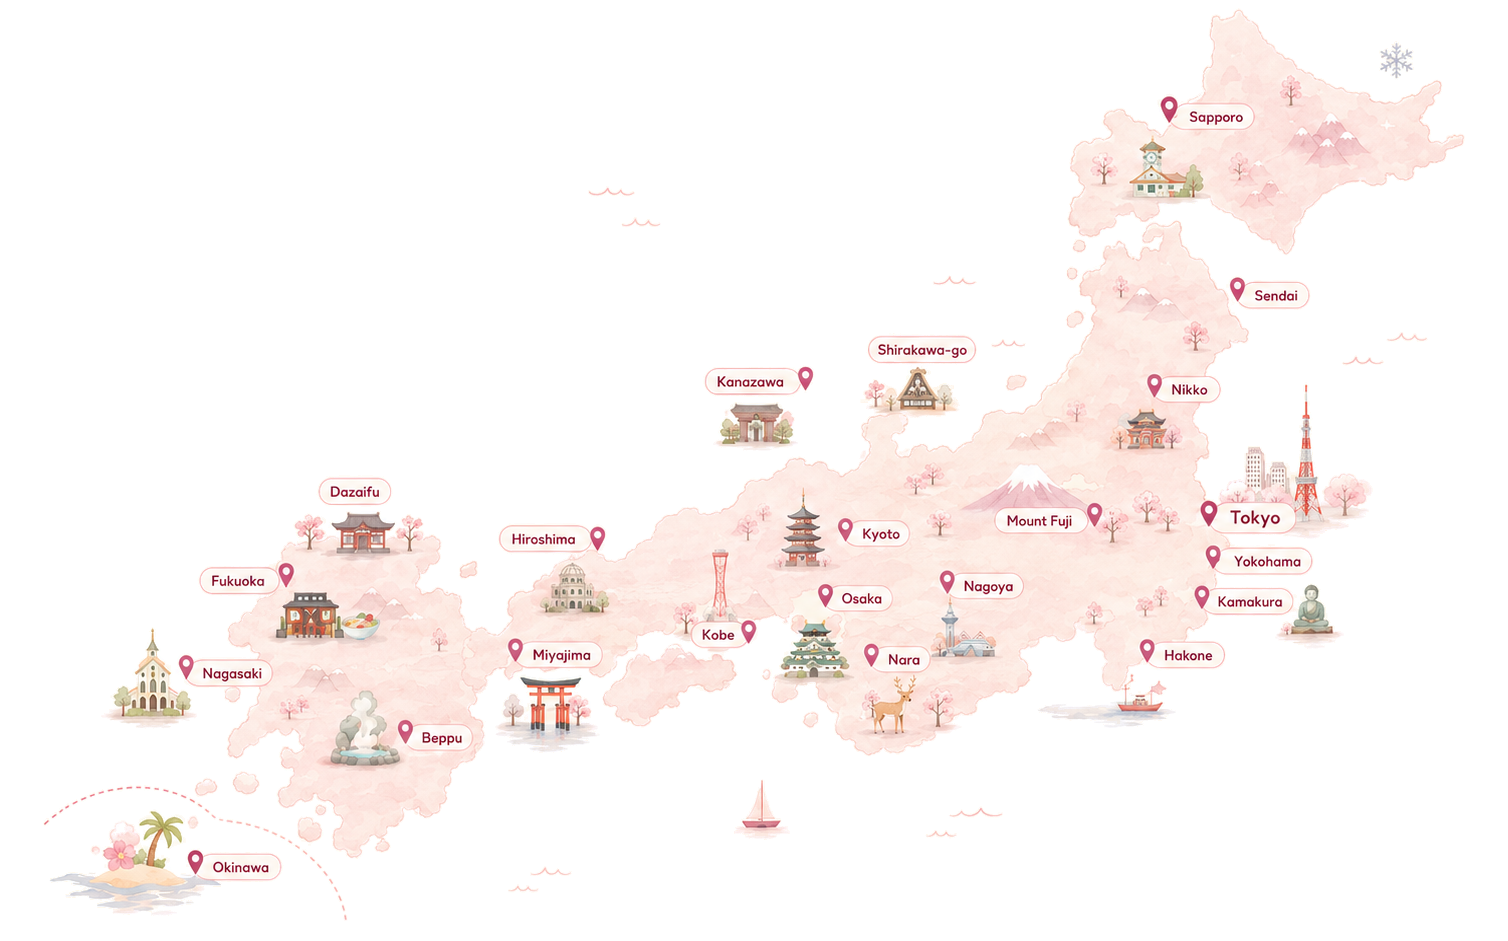
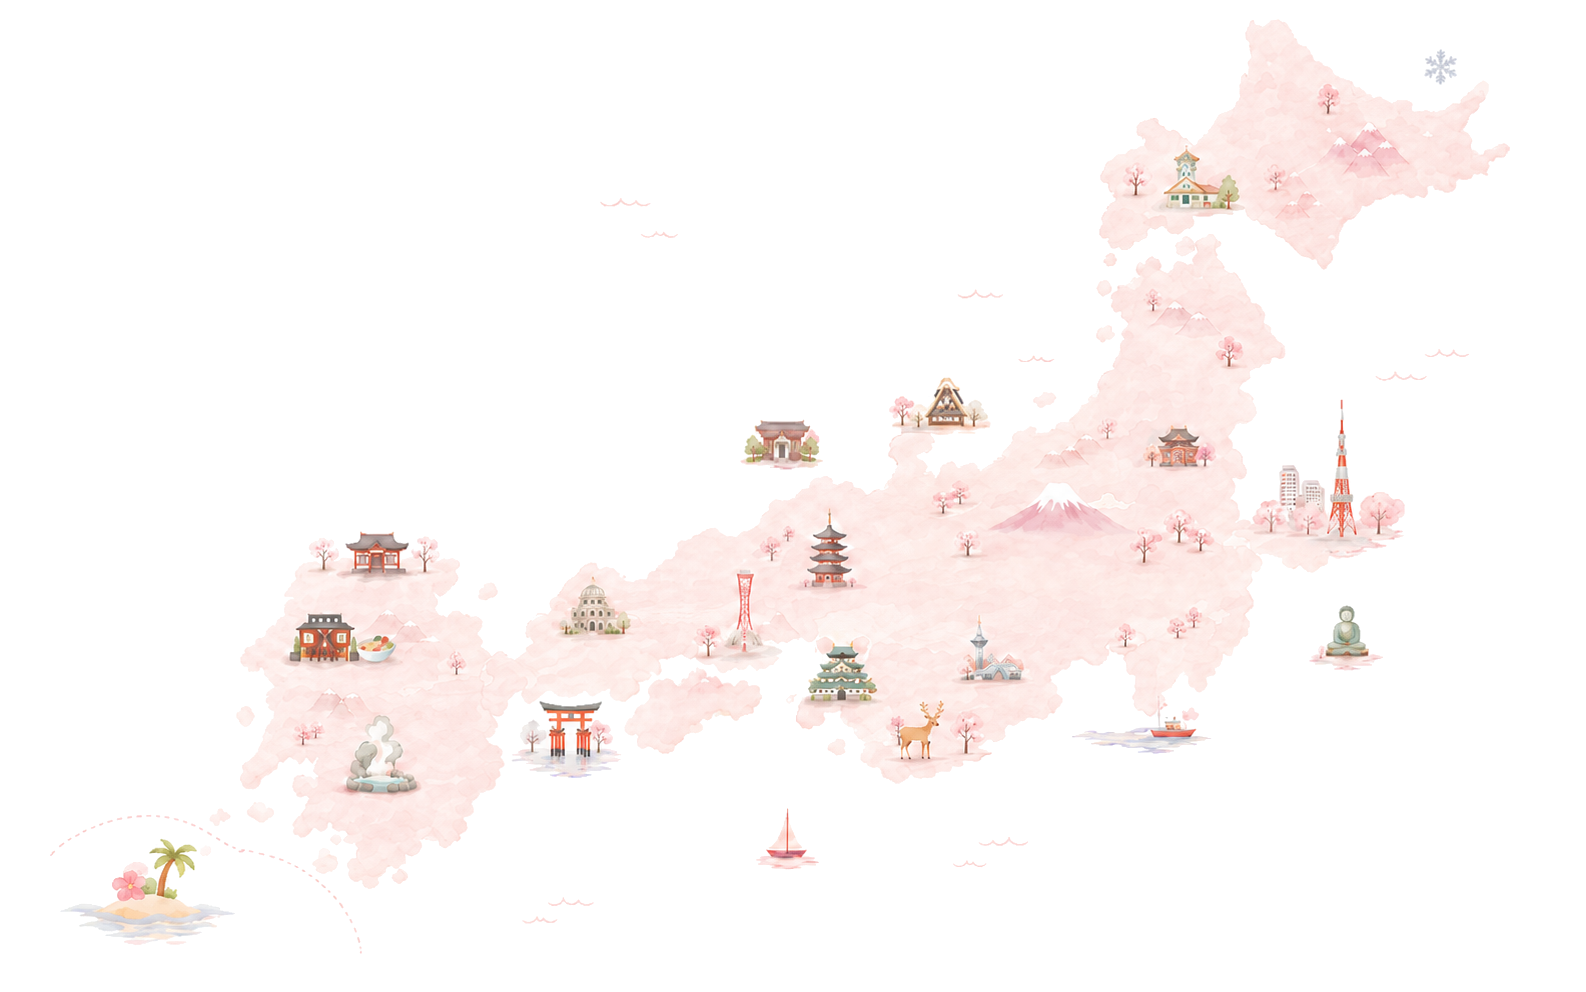
feat(home): swap hero map to label-free bg_web.png + DOM location markers
- Replace baked-label map asset with clean bg_web.png (1586×992, object-contain)
- Add MARKERS overlay (22 cities, %-based) inside floatRef; pin + hover label chip
- Add home.map_markers keys across all 5 locales (vi/en/ja/ko/zh)
- Remove obsolete mobile object-cover crop tied to old asset

Changed region(s): [[0.0312, 0.0, 0.9662, 0.9862], [0.4675, 0.8321, 0.5298, 0.8937]]

diff --git a/components/home/HeroMap.tsx b/components/home/HeroMap.tsx
@@ -2,8 +2,40 @@
 
 import Image from "next/image";
 import { useEffect, useRef, useState } from "react";
+import { useTranslations } from "next-intl";
+
+// Location markers rendered as a DOM overlay on top of the (label-free) base
+// illustration. Coordinates are percentages of the image box (left/top), so
+// they stay aligned at every breakpoint as long as the container keeps the
+// image's native aspect ratio (1586×992) with object-contain — no letterbox,
+// percentages map 1:1. Calibrated visually against /bg_web.png.
+const MARKERS: { id: string; left: number; top: number }[] = [
+  { id: "sapporo", left: 73, top: 17 },
+  { id: "sendai", left: 82, top: 30 },
+  { id: "nikko", left: 72, top: 44 },
+  { id: "tokyo", left: 85, top: 48 },
+  { id: "yokohama", left: 83, top: 52 },
+  { id: "kamakura", left: 80, top: 55 },
+  { id: "hakone", left: 74, top: 53 },
+  { id: "mount_fuji", left: 67, top: 53 },
+  { id: "nagoya", left: 60, top: 57 },
+  { id: "nara", left: 63, top: 64 },
+  { id: "osaka", left: 53, top: 66 },
+  { id: "kobe", left: 46, top: 58 },
+  { id: "kyoto", left: 53, top: 53 },
+  { id: "kanazawa", left: 48, top: 43 },
+  { id: "shirakawago", left: 58, top: 38 },
+  { id: "hiroshima", left: 38, top: 55 },
+  { id: "miyajima", left: 36, top: 69 },
+  { id: "beppu", left: 24, top: 72 },
+  { id: "dazaifu", left: 24, top: 57 },
+  { id: "fukuoka", left: 18, top: 62 },
+  { id: "nagasaki", left: 10, top: 73 },
+  { id: "okinawa", left: 10, top: 89 },
+];
 
 export default function HeroMap({ alt }: { alt: string }) {
+  const t = useTranslations("home.map_markers");
   const ref = useRef<HTMLDivElement>(null);
   const floatRef = useRef<HTMLDivElement>(null);
   const [y, setY] = useState(0);
@@ -98,14 +130,34 @@ export default function HeroMap({ alt }: { alt: string }) {
       />
       <div ref={floatRef} className="origin-center relative will-change-transform">
         <Image
-          src="/bg_web.png?v=2"
+          src="/bg_web.png?v=3"
           alt={alt}
-          width={1508}
-          height={941}
+          width={1586}
+          height={992}
           priority
           sizes="(min-width: 1024px) 44vw, (min-width: 640px) 560px, 88vw"
-          className="w-full aspect-[1508/886] object-cover object-bottom lg:aspect-auto lg:h-auto lg:object-contain saturate-[1.05] contrast-[1.02] drop-shadow-[0_26px_50px_rgba(194,24,91,0.12)]"
+          className="w-full aspect-[1586/992] object-contain saturate-[1.05] contrast-[1.02] drop-shadow-[0_26px_50px_rgba(194,24,91,0.12)]"
         />
+
+        {/* Marker overlay — sits exactly over the image box (object-contain +
+            matching aspect ratio ⇒ no letterbox), so percentage left/top map
+            straight onto the illustration. The parent map div is
+            pointer-events-none; each marker re-enables pointer events so hover
+            works without blocking page scroll elsewhere. */}
+        <div className="absolute inset-0">
+          {MARKERS.map((m) => (
+            <div
+              key={m.id}
+              className="group absolute z-[2] pointer-events-auto hover:z-20"
+              style={{ left: `${m.left}%`, top: `${m.top}%`, transform: "translate(-50%, -50%)" }}
+            >
+              <span className="absolute bottom-full left-1/2 mb-1 -translate-x-1/2 whitespace-nowrap rounded-full border border-rose/15 bg-cream/85 px-2 py-0.5 text-[9px] sm:text-[10px] font-semibold leading-none text-ink/90 shadow-[0_1px_4px_rgba(120,60,40,0.18)] backdrop-blur-[1px] transition-all duration-200 ease-out group-hover:-translate-y-0.5 group-hover:bg-cream group-hover:shadow-[0_6px_16px_-4px_rgba(194,24,91,0.35)]">
+                {t(m.id)}
+              </span>
+              <span className="block h-2 w-2 rounded-full bg-rose shadow-[0_0_0_2px_rgba(255,255,255,0.85),0_2px_5px_rgba(194,24,91,0.45)] transition-transform duration-200 ease-out group-hover:scale-150" />
+            </div>
+          ))}
+        </div>
       </div>
     </div>
   );